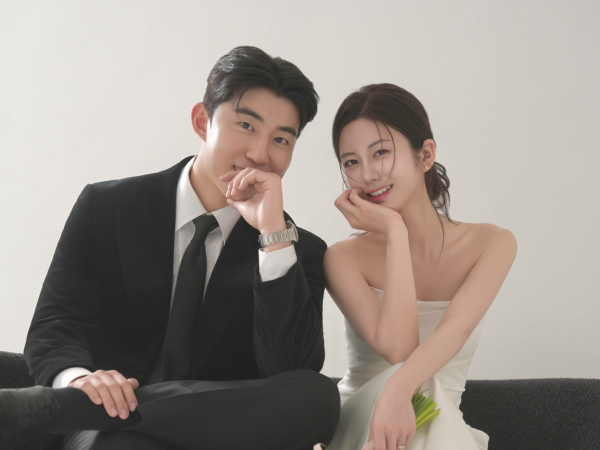
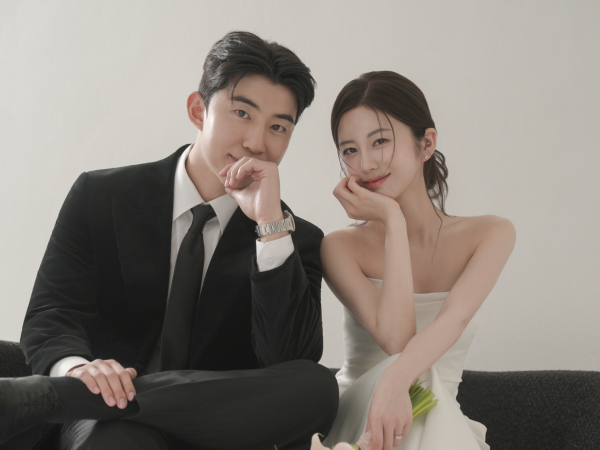
Update share preview image to latest preview.png (600x450)
- og:image → preview.png
- KakaoTalk share imageUrl → preview.png

diff --git a/index.html b/index.html
@@ -8,9 +8,9 @@
   <meta property="og:url" content="https://srjh2026.me/">
   <meta property="og:title" content="김서래 ♥ 박지현 결혼합니다">
   <meta property="og:description" content="10월 24일 토요일 저녁 6시, 플로팅아일랜드">
-  <meta property="og:image" content="https://srjh2026.me/images/hero.JPG">
-  <meta property="og:image:width" content="1066">
-  <meta property="og:image:height" content="1600">
+  <meta property="og:image" content="https://srjh2026.me/preview.png">
+  <meta property="og:image:width" content="600">
+  <meta property="og:image:height" content="450">
   <meta property="og:image:alt" content="김서래 박지현 웨딩">
   <meta name="twitter:card" content="summary_large_image">
   <meta name="description" content="26년 10월 24일 토요일 6시, 세빛섬">
@@ -2157,9 +2157,9 @@
         content: {
           title: '김서래 ♥ 박지현 결혼합니다',
           description: '2026년 10월 24일 토요일 저녁 6시, 플로팅아일랜드',
-          imageUrl: 'https://srjh2026.me/images/hero.JPG',
-          imageWidth: 1066,
-          imageHeight: 1600,
+          imageUrl: 'https://srjh2026.me/preview.png',
+          imageWidth: 600,
+          imageHeight: 450,
           link: {
             mobileWebUrl: 'https://srjh2026.me/',
             webUrl: 'https://srjh2026.me/',